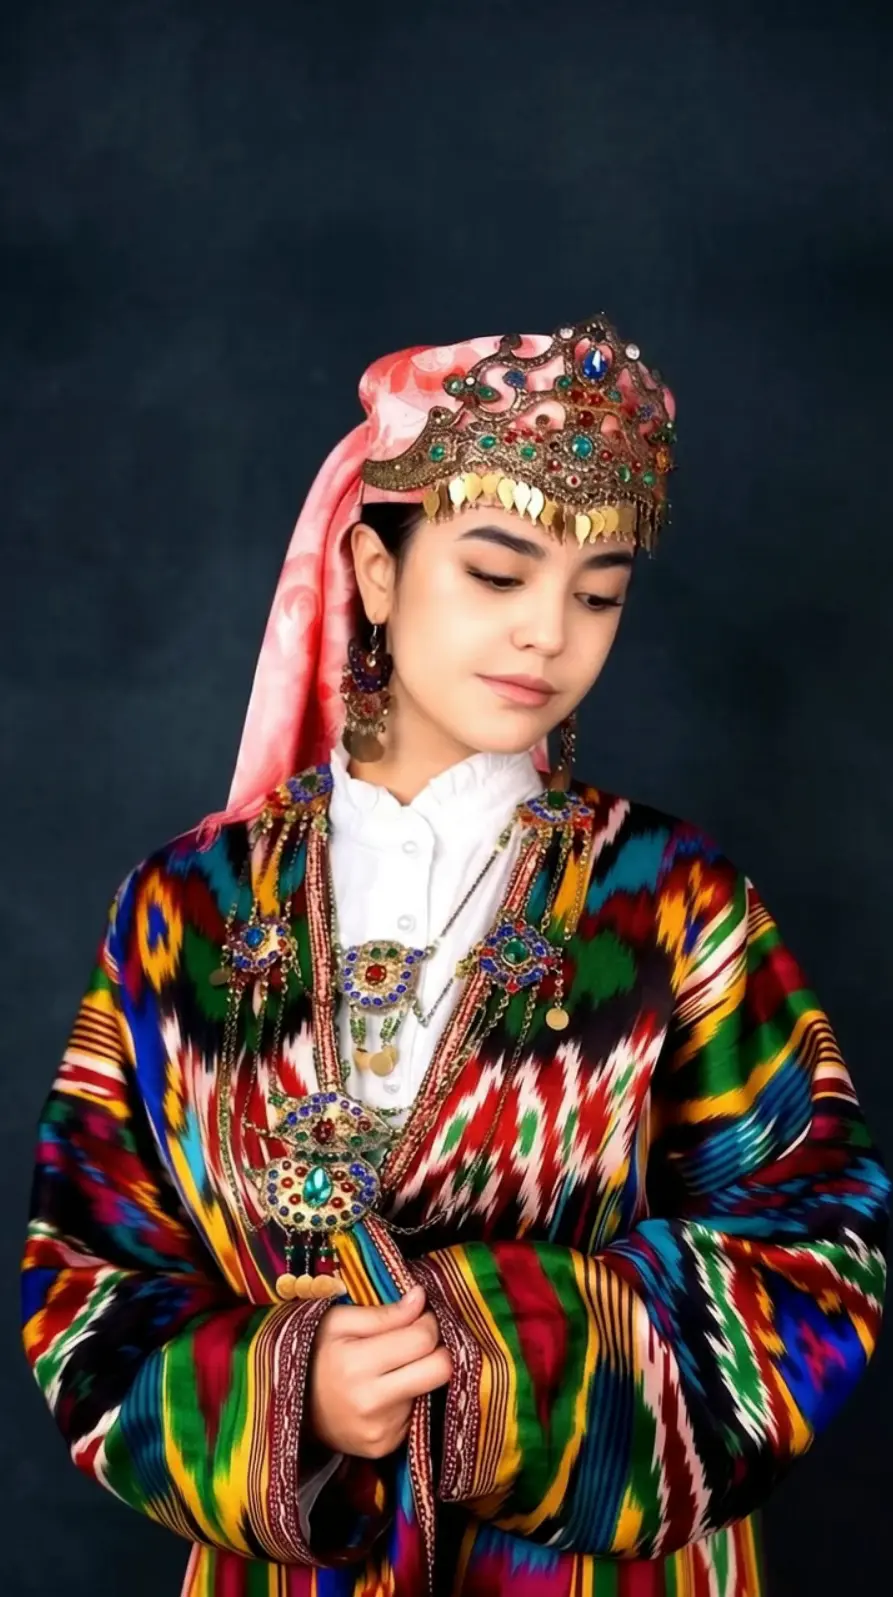
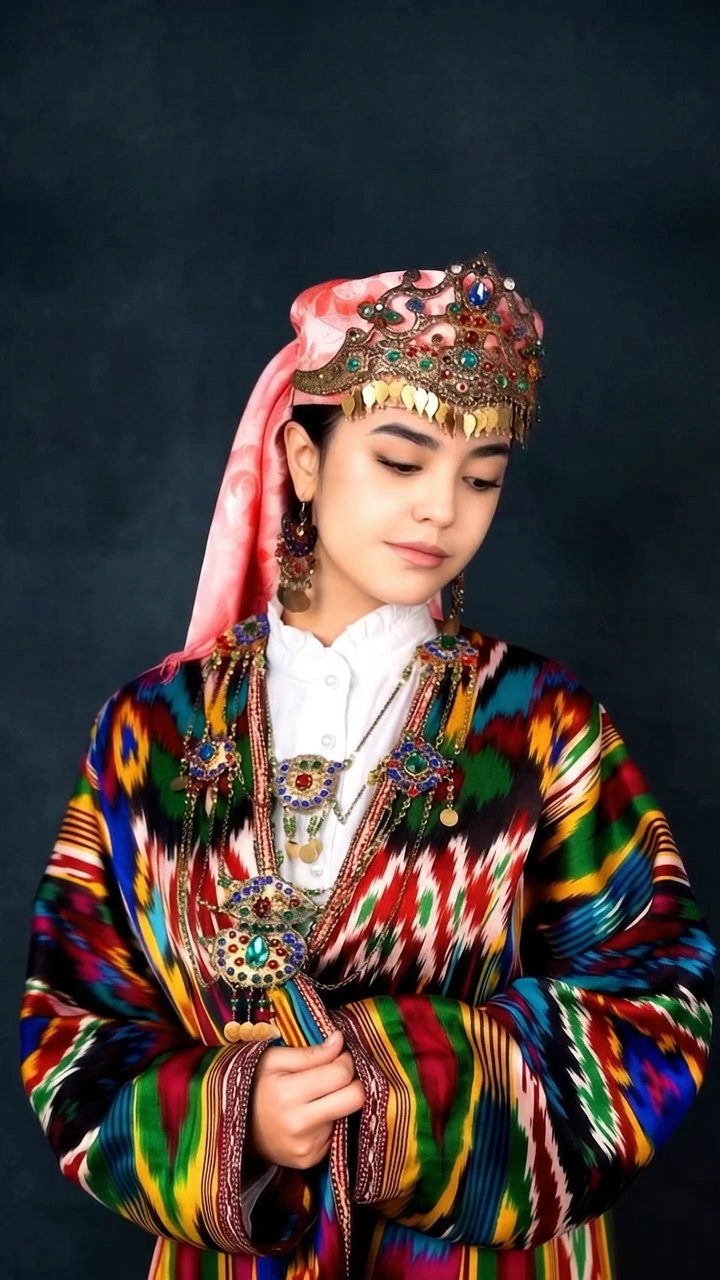
text changes

diff --git a/index.html b/index.html
@@ -4,7 +4,7 @@
   <meta charset="utf-8">
   <meta name="viewport" content="width=device-width, initial-scale=1, viewport-fit=cover">
   <title>Календарь НБУ 2027 - «Исследуя традиции»</title>
-  <meta name="description" content="Национальный костюм Бухары — проект «Культурное наследие Узбекистана» Национального банка Узбекистана.">
+  <meta name="description" content="Календарь НБУ 2027 - «Исследуя традиции». Январь · Ташкент · Праздничный женский костюм.">
   <meta name="theme-color" content="#274378">
   <meta property="og:type" content="website">
   <meta property="og:locale" content="ru_RU">
@@ -43,7 +43,7 @@
   <main id="top">
 
     <!-- ===== 01 + 02 · ВИДЕО И СЖАТИЕ ПРИ ПРОКРУТКЕ ===== -->
-    <section class="stage" id="stage" aria-label="Видео: национальный костюм Бухары">
+    <section class="stage" id="stage" aria-label="Видео: Ташкент · Праздничный женский костюм.">
       <div class="stage__sticky" id="sticky">
 
         <div class="stage__window" id="window">
@@ -51,7 +51,7 @@
           <video id="hero-video" class="stage__video"
                  poster="assets/images/poster.webp"
                  playsinline loop preload="metadata" controls
-                 aria-label="Видео: Праздничный женский костюм"
+                 aria-label="Видео: Ташкент · Праздничный женский костюм."
                  data-focus-x="50" data-focus-y="40">
             <source src="assets/video/uzbek-costume.mp4" type="video/mp4">
             <p>Ваш браузер не поддерживает видео. <a href="assets/video/uzbek-costume.mp4">Скачать видео</a>.</p>
@@ -93,7 +93,7 @@
             <p class="eyebrow">Январь 2027</p>
             <p class="chip">Ташкент · Праздничный женский костюм</p>
             <h1>История костюма</h1>
-            <p class="lead">Праздничный женский костюм Ташкента конца XIX - начала XX века включал шёлковое платье, мурсак и ткани с национальными узорами. Образ дополняли вышивка, серебряные и позолоченные украшения, декорированные камнями и кораллами.</p>
+            <p class="lead">Праздничный женский костюм Ташкента конца XIX - начала XX века включал шёлковое платье, мурсак и ткани с национальными узорами. Образ дополняли вышивка, серебряные и позолоченные украшения, декорированные камнями и кораллами</p>
           </div>
         </div>
 
@@ -121,7 +121,7 @@
             </div>
             <div class="facts__row">
               <dt>Консультант проекта</dt>
-              <dd>Комилова Халида Хафизовна - узбекский учёный, доктор технических наук, профессор. Проректор Ташкентского института текстильной и лёгкой промышленности (ТИТЛП), вице-президент Парижской международной академии моды, председатель Ассоциации дизайнеров Узбекистана «Osiyo Ramzi»</dd>
+              <dd>Комилова Халида Хафизовна - узбекский учёный, доктор технических наук, профессор. Проректор Ташкентского института текстильной и лёгкой промышленности (ТИТЛП), вице-президент Парижской международной академии моды, председатель Ассоциации дизайнеров Узбекистана Osiyo Ramzi</dd>
             </div>
           </dl>
         </div>
